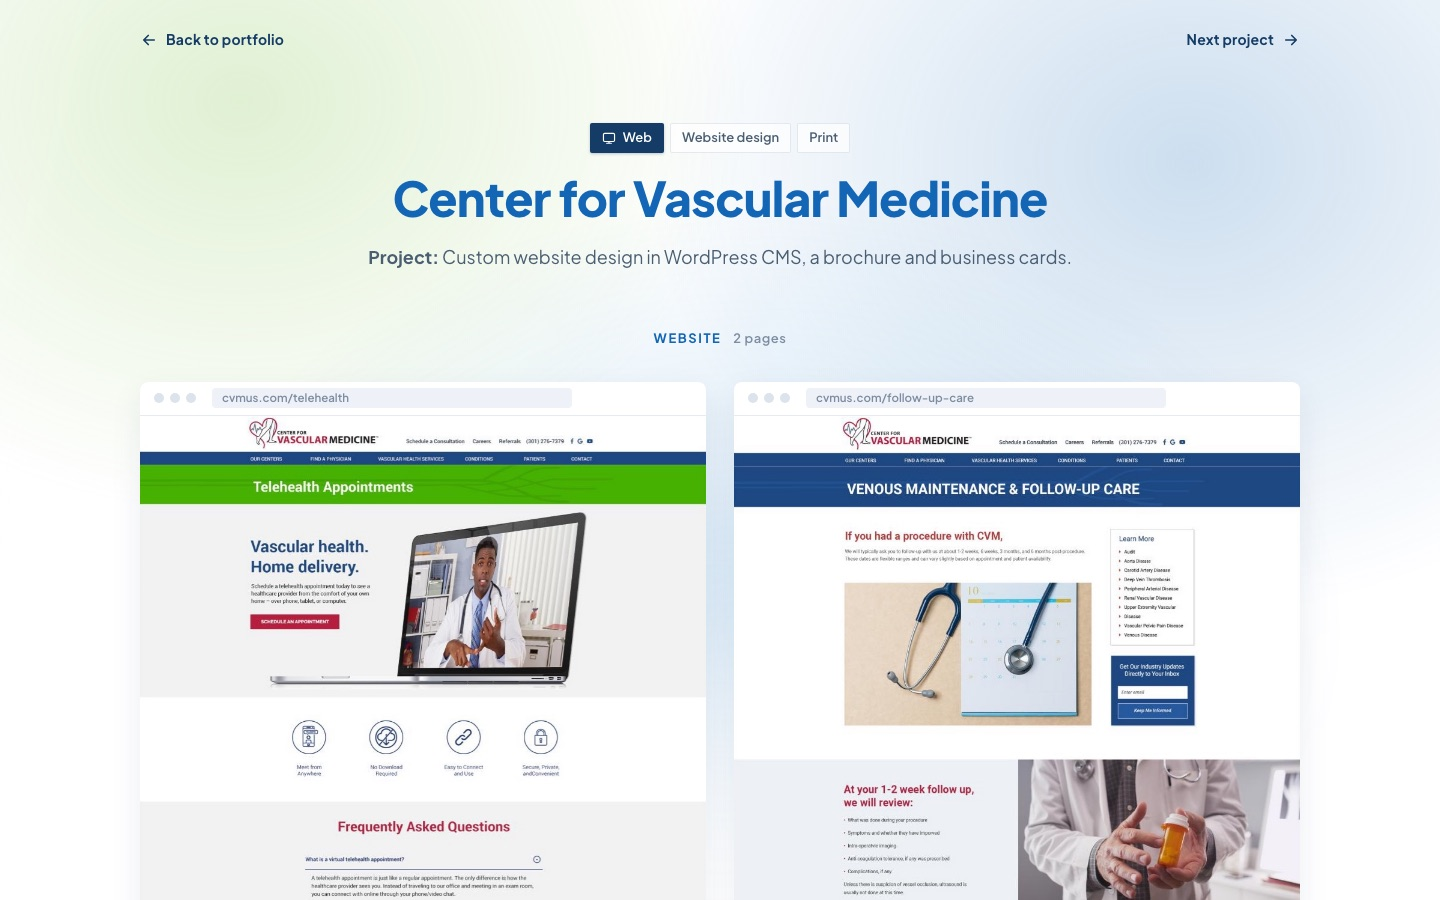
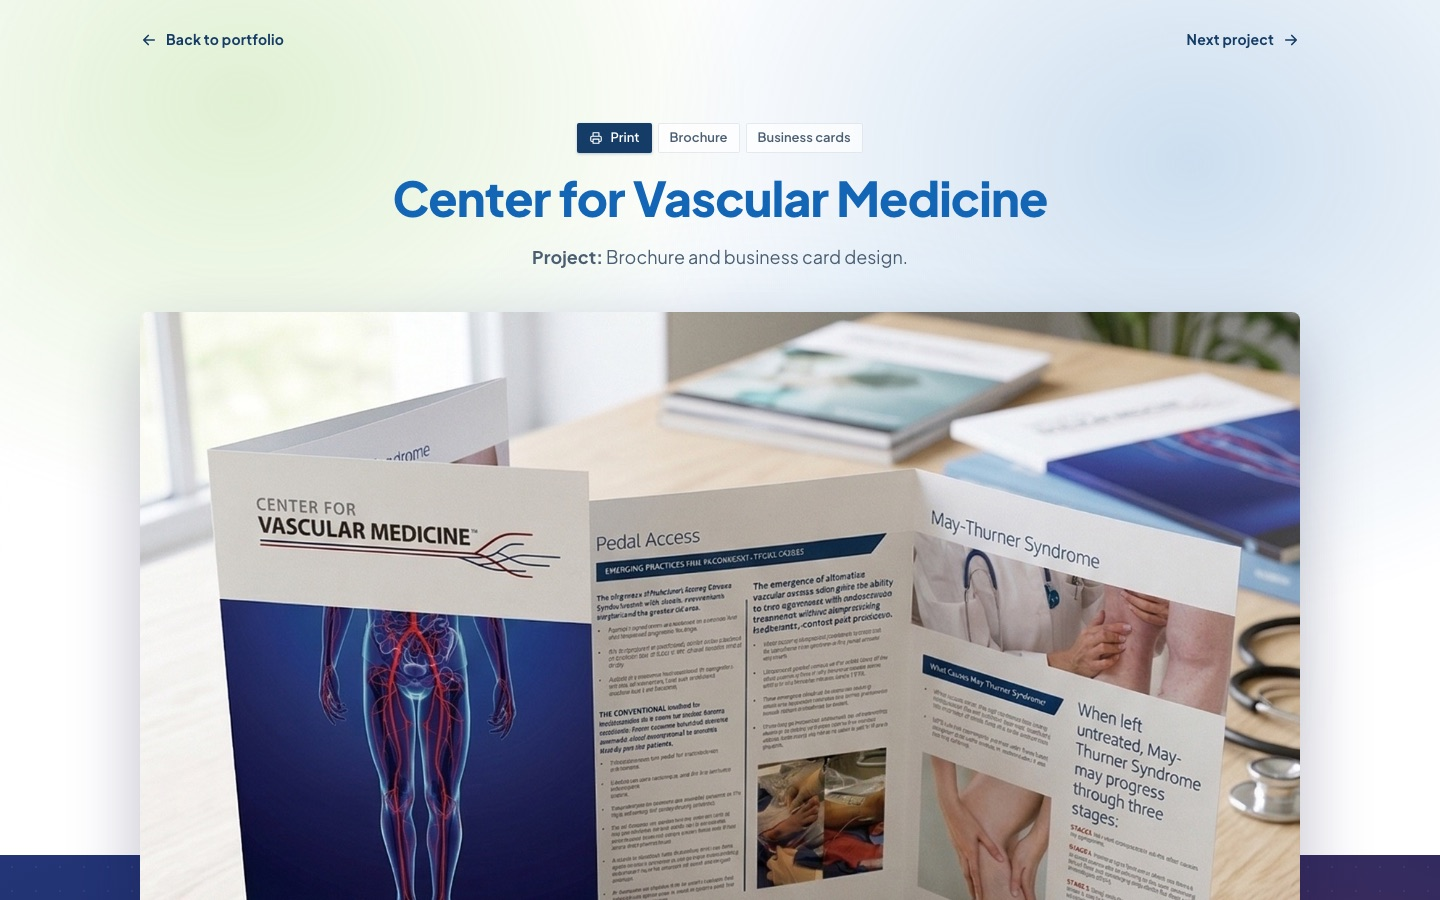
Drop option 5; make option 6 a print page
Option 6 now shows only the Center for Vascular Medicine print work: the
brochure on a wide stage, a cobalt band with one large row per piece, and
the client palette. Option 4 leads on to option 6.

diff --git a/option-6.html b/option-6.html
@@ -4,12 +4,12 @@
   <meta charset="utf-8">
   <meta name="viewport" content="width=device-width, initial-scale=1">
   <title>Center for Vascular Medicine — Portfolio — ImageWorks Creative</title>
-  <meta name="description" content="Website pages, a brochure and business cards for a vascular practice with centers across D.C., Maryland, Virginia and New Jersey — design by ImageWorks Creative.">
+  <meta name="description" content="A tri-fold brochure and business cards for a vascular practice with centers across Maryland and the greater D.C. area — print design by ImageWorks Creative.">
   <link rel="preconnect" href="https://fonts.googleapis.com">
   <link rel="preconnect" href="https://fonts.gstatic.com" crossorigin>
   <link href="https://fonts.googleapis.com/css2?family=Plus+Jakarta+Sans:ital,wght@0,400;0,500;0,600;0,700;0,800;1,400&display=swap" rel="stylesheet">
   <link rel="stylesheet" href="css/styles.css?v=8">
-  <link rel="stylesheet" href="css/option-6.css?v=8">
+  <link rel="stylesheet" href="css/option-6.css?v=9">
 </head>
 <body>
 
@@ -19,9 +19,9 @@
   <svg class="ip-sprite" aria-hidden="true" focusable="false">
     <symbol id="i-arrow-r" viewBox="0 0 24 24"><path d="M5 12h14M13 6l6 6-6 6"/></symbol>
     <symbol id="i-arrow-l" viewBox="0 0 24 24"><path d="M19 12H5M11 18l-6-6 6-6"/></symbol>
-    <symbol id="i-arrow-d" viewBox="0 0 24 24"><path d="M12 5v14M6 13l6 6 6-6"/></symbol>
     <symbol id="i-arrow-cta" viewBox="0 0 24 24"><path d="M5 12h14M12 5l7 7-7 7"/></symbol>
-    <symbol id="i-monitor" viewBox="0 0 24 24"><rect x="2.5" y="4" width="19" height="14" rx="2"/><path d="M8 21h8M12 18v3"/></symbol>
+    <symbol id="i-print" viewBox="0 0 24 24"><path d="M7 9V3h10v6M7 18H5a2 2 0 0 1-2-2v-5a2 2 0 0 1 2-2h14a2 2 0 0 1 2 2v5a2 2 0 0 1-2 2h-2M7 14h10v7H7z"/></symbol>
+    <symbol id="i-close" viewBox="0 0 24 24"><path d="M6 6l12 12M18 6L6 18"/></symbol>
   </svg>
 
   <!-- ===== PAGE WASH ===== -->
@@ -43,52 +43,71 @@
   <section class="iw-hero">
     <div class="inner iwh-in">
       <div class="ip-chips">
-        <a class="ip-chip ip-chip--on" href="https://imageworksc.github.io/portfolio-iwc/"><svg class="ic ic--sm" aria-hidden="true"><use href="#i-monitor"/></svg>Web</a>
-        <span class="ip-chip">Website design</span>
-        <span class="ip-chip">Print</span>
+        <a class="ip-chip ip-chip--on" href="https://imageworksc.github.io/portfolio-iwc/"><svg class="ic ic--sm" aria-hidden="true"><use href="#i-print"/></svg>Print</a>
+        <span class="ip-chip">Brochure</span>
+        <span class="ip-chip">Business cards</span>
       </div>
       <h1 class="ip-title" data-lines="2">Center for Vascular Medicine</h1>
-      <p><strong>Project:</strong> Custom website design in WordPress CMS, a brochure and business cards.</p>
+      <p><strong>Project:</strong> Brochure and business card design.</p>
     </div>
   </section>
 
-  <!-- ===== WEBSITE: two pages, each scrolled under the pointer ===== -->
-  <section class="ip-section ip-section--tight">
+  <!-- ===== STAGE: the brochure, standing ===== -->
+  <div class="o6-stage">
     <div class="iw-wrap">
-      <div class="o6-label rv"><span class="ip-eyebrow">Website</span><small>2 pages</small></div>
-      <div class="o6-pages">
-        <figure class="rv">
-          <div class="ip-browser">
-            <div class="ip-browser__bar" aria-hidden="true"><i></i><i></i><i></i><span class="ip-browser__url">cvmus.com/telehealth</span></div>
-            <div class="ip-scroller">
-              <img src="assets/cvm/page-telehealth.jpg" width="942" height="1610" alt="The telehealth page from top to bottom: a green title band, the headline “Vascular health. Home delivery.” beside a doctor on a laptop screen, four feature icons, a frequently asked questions list, a green call to action and the footer." fetchpriority="high">
-              <span class="ip-scroller__hint"><svg class="ic ic--sm" aria-hidden="true"><use href="#i-arrow-d"/></svg>Hover to scroll the page</span>
-            </div>
+      <figure class="o6-hero">
+        <img src="assets/cvm/brochure-standing.jpg" width="1600" height="1600" alt="The tri-fold brochure standing open on a wooden desk by a window: a cover with a blue anatomical figure and red arteries, and inside spreads on pedal access and May-Thurner syndrome." fetchpriority="high">
+      </figure>
+    </div>
+  </div>
+
+  <!-- ===== THE PIECES: one row each, on the brochure's own blue ===== -->
+  <section class="ip-section o6-deep">
+    <div class="iw-wrap">
+      <div class="o6-head rv">
+        <span class="o6-eyebrow">Print</span>
+        <h2 class="o6-h2">Off the screen, in the hand</h2>
+      </div>
+
+      <div class="o6-rows">
+        <div class="o6-row">
+          <figure class="ip-shot o6-row__media rv">
+            <button type="button" class="ip-shot__frame" data-zoom="assets/cvm/brochure-open.jpg" aria-label="Open the brochure full size"><img src="assets/cvm/brochure-open.jpg" width="1600" height="1600" alt="The brochure lying open on a wooden table, the cover beside the inside spreads on pedal access and May-Thurner syndrome." loading="lazy"></button>
+            <figcaption class="sr-only">Tri-fold brochure</figcaption>
+          </figure>
+          <div class="o6-row__copy rv rv-d1">
+            <span class="o6-eyebrow"><b>01</b>Brochure</span>
+            <h3 class="o6-h3">A tri-fold for the waiting room</h3>
+            <p>A cobalt cover with the arteries traced in the brand's crimson, then plain-language spreads on pedal access and May-Thurner syndrome.</p>
           </div>
-          <figcaption>Telehealth appointments</figcaption>
-        </figure>
-        <figure class="rv rv-d1">
-          <div class="ip-browser">
-            <div class="ip-browser__bar" aria-hidden="true"><i></i><i></i><i></i><span class="ip-browser__url">cvmus.com/follow-up-care</span></div>
-            <div class="ip-scroller">
-              <img src="assets/cvm/page-follow-up.jpg" width="942" height="2034" alt="The venous maintenance and follow-up care page from top to bottom: a navy title band, an intro beside a stethoscope on a calendar, alternating rows for the 1–2 week, 6 week, 3 month and 6 month visits, a navy call to action and the footer." loading="lazy">
-              <span class="ip-scroller__hint"><svg class="ic ic--sm" aria-hidden="true"><use href="#i-arrow-d"/></svg>Hover to scroll the page</span>
-            </div>
+        </div>
+
+        <div class="o6-row">
+          <figure class="ip-shot o6-row__media rv">
+            <button type="button" class="ip-shot__frame" data-zoom="assets/cvm/business-cards.jpg" aria-label="Open the business cards full size"><img src="assets/cvm/business-cards.jpg" width="1600" height="1600" alt="Business cards on a grey stone surface: a crimson back with the white logo and a white front with the name, contact details and the heart mark." loading="lazy"></button>
+            <figcaption class="sr-only">Business cards</figcaption>
+          </figure>
+          <div class="o6-row__copy rv rv-d1">
+            <span class="o6-eyebrow"><b>02</b>Business cards</span>
+            <h3 class="o6-h3">Crimson on one side, clean on the other</h3>
+            <p>The heart mark reversed out of a full crimson back; on the front, the name and a crimson column that carries phone, email, address and site.</p>
           </div>
-          <figcaption>Venous maintenance &amp; follow-up care</figcaption>
-        </figure>
+        </div>
       </div>
     </div>
   </section>
 
-  <!-- ===== PRINT ===== -->
-  <section class="ip-section ip-section--band">
+  <!-- ===== PALETTE ===== -->
+  <section class="ip-section">
     <div class="iw-wrap">
-      <div class="o6-label rv"><span class="ip-eyebrow">Print</span><small>Brochure &amp; business cards</small></div>
-      <div class="ip-photos">
-        <figure class="rv"><img src="assets/cvm/brochure-standing.jpg" width="1600" height="1600" alt="The tri-fold brochure standing open on a wooden desk: a cover with a blue anatomical figure and red arteries, and inside spreads on pedal access and May-Thurner syndrome." loading="lazy"><figcaption>Brochure</figcaption></figure>
-        <figure class="rv rv-d1"><img src="assets/cvm/brochure-open.jpg" width="1600" height="1600" alt="The brochure lying open on a wooden table, the cover beside the inside spreads." loading="lazy"><figcaption>Brochure, inside</figcaption></figure>
-        <figure class="rv rv-d2"><img src="assets/cvm/business-cards.jpg" width="1600" height="1600" alt="Business cards on a grey stone surface: a crimson back with the white logo and a white front with the name, contact details and the heart mark." loading="lazy"><figcaption>Business cards</figcaption></figure>
+      <div class="o6-label rv"><span class="ip-eyebrow">Palette</span><small>From the logo and the press files</small></div>
+      <div class="ip-swatches o6-swatches rv">
+        <div class="ip-swatch"><i class="o6-sw-crimson"></i><b>Crimson</b><span>#A62F3F</span></div>
+        <div class="ip-swatch"><i class="o6-sw-card"></i><b>Card crimson</b><span>#9C1937</span></div>
+        <div class="ip-swatch"><i class="o6-sw-cobalt"></i><b>Cobalt</b><span>#233576</span></div>
+        <div class="ip-swatch"><i class="o6-sw-midnight"></i><b>Midnight</b><span>#12113B</span></div>
+        <div class="ip-swatch"><i class="o6-sw-slate"></i><b>Slate</b><span>#6A7784</span></div>
+        <div class="ip-swatch"><i class="o6-sw-ink"></i><b>Ink</b><span>#221F20</span></div>
       </div>
     </div>
   </section>

diff --git a/css/option-6.css b/css/option-6.css
@@ -1,23 +1,92 @@
-/* Option 6 — Web and print
-   For a project that went past the screen. Each page gets a frame that
-   scrolls under the pointer, straight under the hero, and the print pieces
-   get the photography band. Centred like option 1, with the same
-   one-label-per-block restraint.
+/* Option 6 — Print
+   For work that lives on paper. The brochure stands under the headline in
+   one wide photograph; then the page drops into the brochure's own cobalt,
+   and each piece gets a row of its own, large, with a crimson rule over its
+   name. The palette closes the story on white.
 
+     STAGE       the standing brochure, wide
+     DEEP        the cobalt band, its head and its type
+     ROWS        image and copy, alternating
      LABEL       a block's only text
-     PAGES       two scrolling frames side by side
-     RESPONSIVE  where the pair stacks */
+     PALETTE     the client's colours, for the swatches
+     RESPONSIVE  where the rows stack */
+
+/* ===== STAGE =====
+   The photograph is square; cropped to 3:2 around the brochure, which sits
+   in its middle third, so the desk and the window frame it. */
+.o6-stage { position: relative; z-index: 2; padding: 8px 24px 0; }
+.o6-hero {
+  aspect-ratio: 3 / 2; border-radius: var(--r-card); overflow: hidden; background: var(--card-bg);
+  box-shadow: 0 30px 70px rgba(18,17,59,.28);
+  animation: iwRise .7s var(--ease-out) both; animation-delay: .2s;
+}
+.o6-hero img { width: 100%; height: 100%; object-fit: cover; object-position: 50% 58%; }
+
+/* ===== DEEP =====
+   The band starts behind the lower part of the stage photograph, so the
+   photograph sits half on the wash and half on the cobalt. */
+.o6-deep {
+  position: relative; overflow: hidden; color: #fff;
+  margin-top: calc(-1 * clamp(120px, 16vw, 240px));
+  padding-top: calc(clamp(120px, 16vw, 240px) + var(--section));
+  background:
+    radial-gradient(60% 50% at 90% 20%, rgba(166,47,63,.38), rgba(166,47,63,0) 70%),
+    radial-gradient(50% 40% at 0% 90%, rgba(166,47,63,.22), rgba(166,47,63,0) 70%),
+    linear-gradient(160deg, #233576 0%, #12113B 78%);
+}
+/* the same 1px dot grid the closing band uses */
+.o6-deep::before { content: ''; position: absolute; inset: 0; pointer-events: none; background-image: radial-gradient(rgba(255,255,255,.06) 1px, transparent 1px); background-size: 24px 24px; }
+.o6-deep .iw-wrap { position: relative; }
+.o6-head { text-align: center; margin-bottom: clamp(40px, 6vw, 80px); }
+.o6-eyebrow {
+  display: inline-flex; align-items: center; gap: 12px; margin-bottom: 14px;
+  font-size: 13px; font-weight: 700; letter-spacing: .12em; text-transform: uppercase; color: rgba(226,238,252,.82);
+}
+.o6-eyebrow::before { content: ''; width: 28px; height: 3px; border-radius: 2px; background: #C8384C; }
+.o6-head .o6-eyebrow::after { content: ''; width: 28px; height: 3px; border-radius: 2px; background: #C8384C; }
+.o6-eyebrow b { font-weight: 800; color: #fff; }
+.o6-h2 { font-weight: 800; font-size: clamp(32px, 4.6vw, 56px); line-height: 1.08; letter-spacing: -1px; color: #fff; text-wrap: balance; }
+.o6-h3 { font-weight: 800; font-size: clamp(26px, 2.8vw, 36px); line-height: 1.15; letter-spacing: -.5px; color: #fff; text-wrap: balance; }
+.o6-row__copy p { margin-top: 16px; max-width: 46ch; font-size: var(--step-1); line-height: 1.75; color: rgba(226,238,252,.82); }
+
+/* ===== ROWS ===== */
+.o6-rows { display: grid; gap: clamp(56px, 8vw, 112px); }
+.o6-row { display: grid; grid-template-columns: minmax(0, 7fr) minmax(0, 5fr); gap: clamp(28px, 5vw, 72px); align-items: center; }
+.o6-row:nth-child(even) { grid-template-columns: minmax(0, 5fr) minmax(0, 7fr); }
+.o6-row:nth-child(even) .o6-row__media { order: 2; }
+.o6-row__media .ip-shot__frame { aspect-ratio: 5 / 4; background: #12113B; box-shadow: 0 30px 70px rgba(0,0,0,.35); }
+.o6-row__media .ip-shot__frame img { height: 100%; object-fit: cover; transition: transform .6s cubic-bezier(.2,.7,.3,1); }
+.o6-row__media .ip-shot__frame:hover { box-shadow: 0 36px 80px rgba(0,0,0,.42); }
+.o6-row__media .ip-shot__frame:hover img { transform: scale(1.04); }
+@media (prefers-reduced-motion: reduce) { .o6-row__media .ip-shot__frame:hover img { transform: none; } }
 
 /* ===== LABEL =====
-   One small label, centred, with a count beside it. */
-.o6-label { display: flex; justify-content: center; align-items: baseline; gap: 12px; margin-bottom: clamp(20px, 3vw, 32px); }
+   One small label, centred, with a note beside it. */
+.o6-label { display: flex; justify-content: center; align-items: baseline; flex-wrap: wrap; gap: 4px 12px; margin-bottom: clamp(20px, 3vw, 32px); }
 .o6-label .ip-eyebrow { margin: 0; }
 .o6-label small { font-size: 13px; font-weight: 600; letter-spacing: .04em; color: var(--muted-2); }
 
-/* ===== PAGES ===== */
-.o6-pages { display: grid; grid-template-columns: repeat(2, minmax(0, 1fr)); gap: var(--gap); }
-.o6-pages .ip-browser { box-shadow: inset 0 0 0 1px rgba(20,60,102,.06), 0 12px 32px rgba(9,40,80,.08); }
-.o6-pages figcaption { text-align: center; padding: 14px 0 0; font-size: var(--step-sm); font-weight: 600; color: var(--muted); }
+/* ===== PALETTE =====
+   Read from the logo files and the press mockups. They are the project's
+   colours, not the portfolio's, so they live here and not in the tokens. */
+.o6-swatches { grid-template-columns: repeat(6, minmax(0, 1fr)); }
+.o6-swatches .ip-swatch i { height: 120px; }
+.o6-sw-crimson { background: #a62f3f; }
+.o6-sw-card { background: #9c1937; }
+.o6-sw-cobalt { background: #233576; }
+.o6-sw-midnight { background: #12113b; }
+.o6-sw-slate { background: #6a7784; }
+.o6-sw-ink { background: #221f20; }
 
 /* ===== RESPONSIVE ===== */
-@media (max-width: 720px) { .o6-pages { grid-template-columns: 1fr; } }
+@media (max-width: 1100px) {
+  .o6-row, .o6-row:nth-child(even) { grid-template-columns: 1fr; }
+  .o6-row:nth-child(even) .o6-row__media { order: 0; }
+  .o6-swatches { grid-template-columns: repeat(3, minmax(0, 1fr)); }
+}
+@media (max-width: 720px) {
+  .o6-stage { padding: 8px 16px 0; }
+  .o6-hero { aspect-ratio: 4 / 3; }
+  .o6-swatches { grid-template-columns: repeat(2, minmax(0, 1fr)); }
+}
+@media (prefers-reduced-motion: reduce) { .o6-hero { animation: none; } }

diff --git a/index.html b/index.html
@@ -3,8 +3,8 @@
 <head>
   <meta charset="utf-8">
   <meta name="viewport" content="width=device-width, initial-scale=1">
-  <title>Individual portfolio page — six options — ImageWorks Creative</title>
-  <meta name="description" content="Six layout options for the project page behind every card in the ImageWorks Creative portfolio, set in the portfolio's own type, colour and motion.">
+  <title>Individual portfolio page — five options — ImageWorks Creative</title>
+  <meta name="description" content="Five layout options for the project page behind every card in the ImageWorks Creative portfolio, set in the portfolio's own type, colour and motion.">
   <link rel="preconnect" href="https://fonts.googleapis.com">
   <link rel="preconnect" href="https://fonts.gstatic.com" crossorigin>
   <link href="https://fonts.googleapis.com/css2?family=Plus+Jakarta+Sans:ital,wght@0,400;0,500;0,600;0,700;0,800;1,400&display=swap" rel="stylesheet">
@@ -44,7 +44,7 @@
   <section class="iw-hero">
     <div class="inner iwh-in">
       <h1 class="ip-title">Individual portfolio page</h1>
-      <p>Six options for the page behind every card in the portfolio — same type, colour and motion as the grid, each with a different way of telling the project's story. Open each one, then pick a lane.</p>
+      <p>Five options for the page behind every card in the portfolio — same type, colour and motion as the grid, each with a different way of telling the project's story. Open each one, then pick a lane.</p>
     </div>
   </section>
 
@@ -120,33 +120,17 @@
         <article class="ix-card rv">
           <span class="ip-chip ip-chip--on ix-card__tag">Center for Vascular Medicine</span>
           <div class="ip-browser">
-            <div class="ip-browser__bar" aria-hidden="true"><i></i><i></i><i></i><span class="ip-browser__url">option-5.html</span></div>
-            <img src="assets/options/option-5.jpg" width="1440" height="900" alt="Option 5: the category, the name and the project label over two browser frames, each holding a whole page.">
-          </div>
-          <div class="ix-card__body">
-            <span class="ip-eyebrow">Option 05</span>
-            <h2>Simple, two pages</h2>
-            <p>Option 4 with a second page beside the first: the lane, the name, the project label, and two full-page screenshots in frames, side by side.</p>
-            <ul><li>Category chips, headline and project label</li><li>Two full-page captures, top to bottom</li><li>No copy, no gallery</li></ul>
-            <span class="ip-link">Open option 5<svg class="ic" aria-hidden="true"><use href="#i-arrow-r"/></svg></span>
-          </div>
-          <a class="ip-cover" href="option-5.html" aria-label="Open option 5, simple with two pages"></a>
-        </article>
-
-        <article class="ix-card rv rv-d1">
-          <span class="ip-chip ip-chip--on ix-card__tag">Center for Vascular Medicine</span>
-          <div class="ip-browser">
             <div class="ip-browser__bar" aria-hidden="true"><i></i><i></i><i></i><span class="ip-browser__url">option-6.html</span></div>
-            <img src="assets/options/option-6.jpg" width="1440" height="900" alt="Option 6: the name and project label over two scrolling page frames, then the print pieces.">
+            <img src="assets/options/option-6.jpg" width="1440" height="900" alt="Option 6: the name and project label over a wide photograph of the brochure standing open on a desk.">
           </div>
           <div class="ix-card__body">
             <span class="ip-eyebrow">Option 06</span>
-            <h2>Web and print</h2>
-            <p>For work that went past the screen. Each page scrolls under the pointer in its own frame, straight under the headline, and the print pieces get the photography band.</p>
-            <ul><li>Two long-scroll frames</li><li>Brochure and business cards</li><li>Next-project band</li></ul>
+            <h2>Print</h2>
+            <p>For work that lives on paper. The brochure stands under the headline in one wide photograph, then the page drops into the brochure's own cobalt and each piece gets a large row of its own.</p>
+            <ul><li>Wide stage photograph</li><li>Brochure and business cards on cobalt</li><li>The client palette, next-project band</li></ul>
             <span class="ip-link">Open option 6<svg class="ic" aria-hidden="true"><use href="#i-arrow-r"/></svg></span>
           </div>
-          <a class="ip-cover" href="option-6.html" aria-label="Open option 6, web and print"></a>
+          <a class="ip-cover" href="option-6.html" aria-label="Open option 6, print"></a>
         </article>
 
       </div>

diff --git a/option-4.html b/option-4.html
@@ -36,7 +36,7 @@
   <nav class="ip-top" aria-label="Portfolio navigation">
     <div class="iw-wrap">
       <a class="ip-back" href="https://imageworksc.github.io/portfolio-iwc/"><svg class="ic" aria-hidden="true"><use href="#i-arrow-l"/></svg>Back to portfolio</a>
-      <a class="ip-fwd" href="option-5.html">Next project<svg class="ic" aria-hidden="true"><use href="#i-arrow-r"/></svg></a>
+      <a class="ip-fwd" href="option-6.html">Next project<svg class="ic" aria-hidden="true"><use href="#i-arrow-r"/></svg></a>
     </div>
   </nav>
 

diff --git a/css/index.css b/css/index.css
@@ -1,6 +1,6 @@
-/* Index — the six options side by side
+/* Index — the five options side by side
    A chooser, set the way the grid page is set: headline over the wash, then
-   six frames, two by two. Each frame is one option, and the whole card is
+   five frames, two by two. Each frame is one option, and the whole card is
    the link.
 
      GRID        two by two, so each frame keeps enough width to read

diff --git a/README.md b/README.md
@@ -1,6 +1,6 @@
 # Individual portfolio page — ImageWorks Creative
 
-Six layout options for the project page that sits behind every card in the
+Five layout options for the project page that sits behind every card in the
 [ImageWorks Creative portfolio](https://imageworksc.github.io/portfolio-iwc/),
 set in the portfolio's own type, colour and motion.
 
@@ -8,13 +8,12 @@ Live: **https://imageworksc.github.io/individual-portfolio/**
 
 | Page | Option | Project shown |
 |---|---|---|
-| [`index.html`](index.html) | The chooser — all six side by side | — |
+| [`index.html`](index.html) | The chooser — all five side by side | — |
 | [`option-1.html`](option-1.html) | **Visual** — images only, text kept to a minimum: headline and chips, hero in a frame, six sections whole, three phones, the photography, "More work" cards | Casey Margenau Fine Homes & Estates |
 | [`option-2.html`](option-2.html) | **Editorial split** — breadcrumb, split hero, long-scroll frame, sticky section nav with scroll tracking | Atlantic Sun Control |
 | [`option-3.html`](option-3.html) | **Showcase** — device stage, brief, facts in a row, five numbered feature rows, photography band | Casey Margenau Fine Homes & Estates |
 | [`option-4.html`](option-4.html) | **Simple** — category chips, the headline, and one full-page screenshot in a browser frame; no copy | Casey Margenau Fine Homes & Estates |
-| [`option-5.html`](option-5.html) | **Simple, two pages** — chips, headline, project label, and two full-page screenshots side by side | Center for Vascular Medicine |
-| [`option-6.html`](option-6.html) | **Web and print** — two long-scroll frames, the brochure and business cards, next-project band | Center for Vascular Medicine |
+| [`option-6.html`](option-6.html) | **Print** — a wide stage photograph of the brochure, a cobalt band with one large row per piece, the client palette, next-project band | Center for Vascular Medicine |
 
 Every option opens with the portfolio's page wash, ends on its closing band,
 links back to the grid, and leads on to the next project.
@@ -27,8 +26,7 @@ option-1.html         Option 1 — visual, images only
 option-2.html         Option 2 — editorial split
 option-3.html         Option 3 — showcase
 option-4.html         Option 4 — simple: chips, headline, one full-page screenshot
-option-5.html         Option 5 — simple, two pages side by side
-option-6.html         Option 6 — web and print
+option-6.html         Option 6 — print
 css/styles.css        shared: tokens, base, button, wash, chips, card, frames,
                       meta, stats, prose, gallery + lightbox, swatches,
                       next-project band, CTA, motion, responsive
@@ -39,10 +37,10 @@ assets/casey/         Casey Margenau: hero, section and mobile captures, photogr
 assets/asc/           Atlantic Sun Control: hero, section and mobile captures
                       (both folders hold a few spare captures the pages do not
                       use yet — swap them in when adjusting an option)
-assets/cvm/           Center for Vascular Medicine: two full-page captures,
-                      brochure and business-card mockups
+assets/cvm/           Center for Vascular Medicine: brochure and
+                      business-card mockups
 assets/works/         two portfolio images for the "More work" row
-assets/options/       thumbnails of the six options, for the chooser
+assets/options/       thumbnails of the five options, for the chooser
 DESIGN.md             the design contract — every token, primitive and motion value
 ```
 
